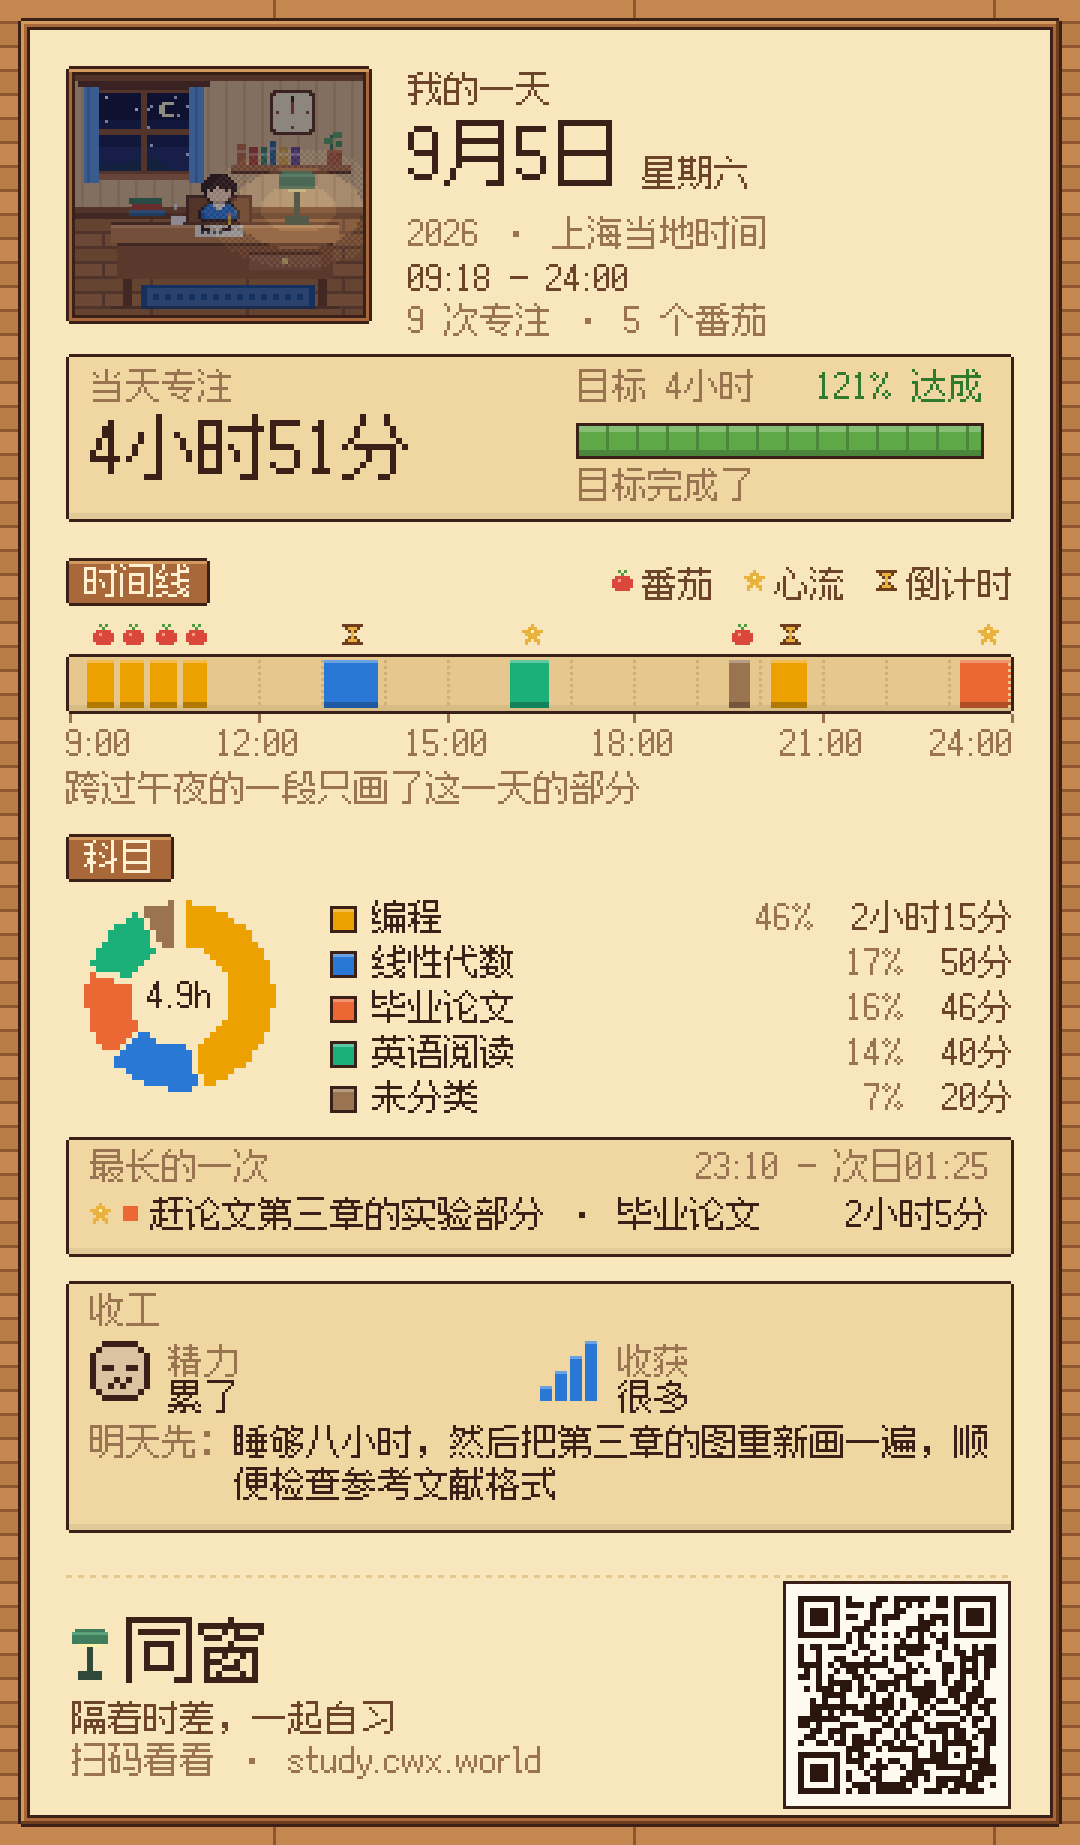
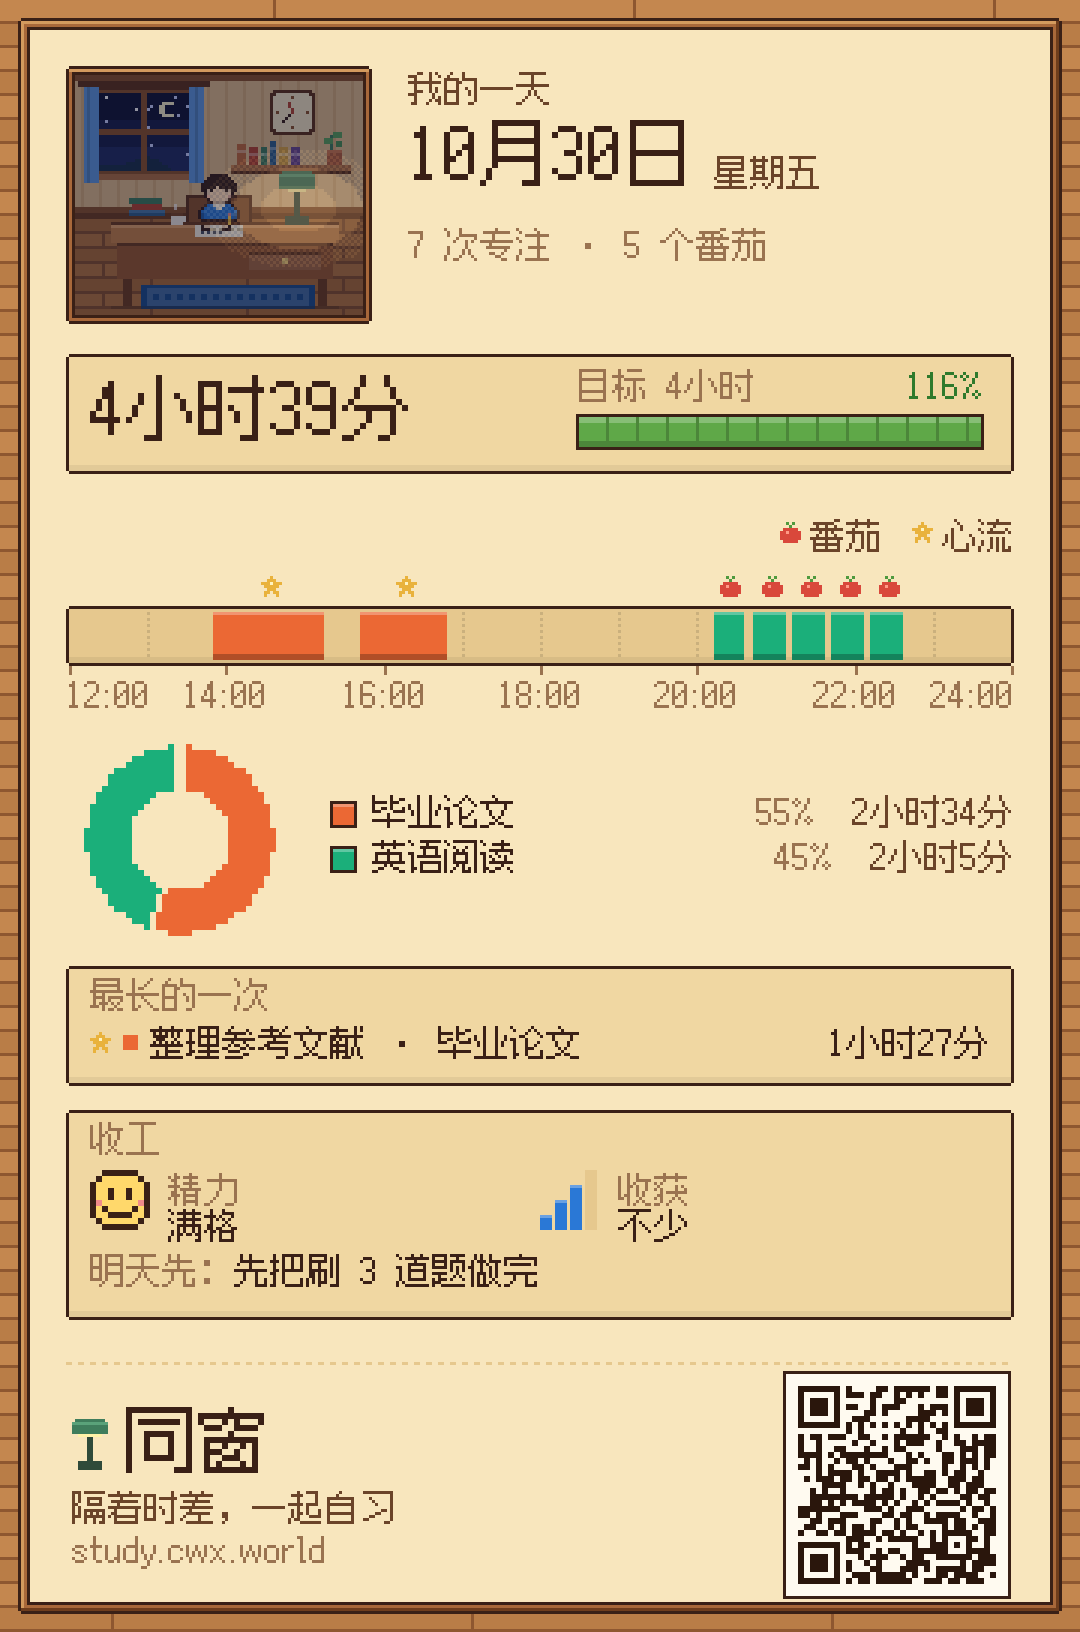
v1.5.1：分享图去掉多余的说明文字
一天：去掉年份与时区、时间范围、“当天专注”“目标完成了/还差”“达成”、跨午夜说明、最长一次的时间段、“时间线/科目”标签和饼图中心合计；没有记录时不画时间线。
一年：去掉副标题、日期范围和“一格是一天”。主页：去掉重复标签与“最近 N 天/周”，只画已获得的徽章。底部条去掉“扫码看看”。

Claude-Session: https://claude.ai/code/session_01XAwhtzSpAW6CvCXUzTFnq7

diff --git a/lib/dayCard.ts b/lib/dayCard.ts
@@ -200,10 +200,10 @@ const X = 22, CW = DAY_W - 44;
 
 function layout(d: DayData) {
   let y = 118; // header ends at 108
-  const total = { y, h: 56 }; y += 56 + 12;
+  const total = { y, h: 40 }; y += 40 + 12;
   const cut = d.blocks.some((b) => b.cutL || b.cutR);
-  const tl = { y, h: 32 + 20 + 16 + (cut ? 14 : 0) }; y += tl.h + 10;
-  const subj = d.slices.length ? { y, h: 20 + Math.max(68, d.slices.length * 15) } : null; if (subj) y += subj.h + 6;
+  const tl = d.blocks.length ? { y, h: 32 + 20 + 16 } : null; if (tl) y += tl.h + 10;
+  const subj = d.slices.length ? { y, h: Math.max(68, d.slices.length * 15) } : null; if (subj) y += subj.h + 6;
   const longest = d.longest ? { y, h: 40 } : null; if (longest) y += 40 + 8;
   const noteLines = d.review?.note ? wrap(d.review.note, CW - 16 - textW("明天先："), 2).length : 0;
   const review = d.review ? { y, h: 20 + 22 + (noteLines ? 6 + noteLines * 14 : 0) + 8 } : null; if (review) y += review.h + 8;
@@ -247,25 +247,21 @@ export function drawDayCard(ctx: CanvasRenderingContext2D, d: DayData, theme: Ca
   text(ctx, fit(titleOf(d), tw), tx, 24, p.ink2);
   const dw = text(ctx, fmtDay(d.day), tx, 40, p.ink, 2);
   text(ctx, "星期" + weekdayCn[weekdayOfKey(d.day)], tx + dw + 6, 52, p.ink2);
-  text(ctx, fit(`${d.day.slice(0, 4)} · ${tzCity(d.tz)}当地时间`, tw), tx, 72, p.ink3);
-  if (d.span) text(ctx, `${d.span[0]} – ${d.live ? "进行中" : d.span[1]}`, tx, 87, p.ink2);
-  // a short tally under the time range
-  const tally = d.count ? `${d.count} 次专注${d.pomos ? ` · ${d.pomos} 个番茄` : ""}` : "这一天没有专注记录";
-  text(ctx, fit(tally, tw), tx, d.span ? 101 : 87, p.ink3);
+  const tally = d.count ? `${d.count} 次专注${d.pomos ? ` · ${d.pomos} 个番茄` : ""}` : "没有专注记录";
+  text(ctx, fit(tally, tw), tx, 76, p.ink3);
 
   /* total + goal */
   {
     const { y, h } = L.total;
     tile(ctx, X, y, CW, h, p);
-    text(ctx, "当天专注", X + 8, y + 5, p.ink3);
-    text(ctx, fit(durTxt(d.totalMs), 150, 2), X + 8, y + 20, p.ink, 2);
+    text(ctx, fit(durTxt(d.totalMs), 150, 2), X + 8, y + Math.round(h / 2) - 13, p.ink, 2);
     const gx = X + 170, gw = CW - 170 - 10;
     const pct = d.goalMs > 0 ? Math.round((d.totalMs / d.goalMs) * 100) : 0;
     text(ctx, `目标 ${durTxt(d.goalMs)}`, gx, y + 5, p.ink3);
-    const pt = pct >= 100 ? `${pct}% 达成` : `${pct}%`;
+    const pt = `${pct}%`;
     text(ctx, pt, gx + gw - textW(pt), y + 5, pct >= 100 ? (p.night ? "#9ed36a" : "#2f7a2c") : p.ink2);
     // segmented pixel bar
-    const by = y + 23, bh = 12;
+    const by = y + 20, bh = 12;
     rect(ctx, gx, by, gw, bh, p.edge);
     rect(ctx, gx + 1, by + 1, gw - 2, bh - 2, p.slot);
     const fillW = Math.round((gw - 2) * Math.min(1, pct / 100));
@@ -276,13 +272,11 @@ export function drawDayCard(ctx: CanvasRenderingContext2D, d: DayData, theme: Ca
       rect(ctx, gx + 1, by + bh - 3, fillW, 2, goodDk);
       for (let sx = gx + 1 + 9; sx < gx + 1 + fillW; sx += 10) rect(ctx, sx, by + 1, 1, bh - 2, goodDk);
     }
-    text(ctx, pct >= 100 ? "目标完成了" : `还差 ${durTxt(Math.max(0, d.goalMs - d.totalMs))}`, gx, by + bh + 3, p.ink3);
   }
 
   /* timeline */
-  {
+  if (L.tl) {
     const y0 = L.tl.y;
-    tag(ctx, "时间线", X, y0, p);
     // legend of the modes used, right-aligned on the tag row
     const modes = (["pomodoro", "stopwatch", "countdown"] as FocusMode[]).filter((m) => d.blocks.some((b) => b.mode === m));
     let lx = X + CW;
@@ -335,7 +329,7 @@ export function drawDayCard(ctx: CanvasRenderingContext2D, d: DayData, theme: Ca
       const cx = Math.round(x0 + w / 2) - 3;
       if (cx >= lastIcon + 8) { modeIcon(ctx, b.mode, Math.max(X, Math.min(X + CW - 7, cx)), iy, p); lastIcon = cx; }
     });
-    if (!d.blocks.length) { const m = "这一天没有专注记录"; text(ctx, m, X + Math.round((CW - textW(m)) / 2), ty + 3, p.ink3); }
+    if (!d.blocks.length) { const m = "没有专注记录"; text(ctx, m, X + Math.round((CW - textW(m)) / 2), ty + 3, p.ink3); }
     // ticks + labels
     const labels: { x: number; w: number; t: string }[] = [];
     for (let h = h0; h <= h1; h += step) {
@@ -352,20 +346,15 @@ export function drawDayCard(ctx: CanvasRenderingContext2D, d: DayData, theme: Ca
       text(ctx, l.t, l.x, ty + th + 4, p.ink3);
       lastEnd = l.x + l.w;
     });
-    if (L.cut) text(ctx, "跨过午夜的一段只画了这一天的部分", X, ty + th + 19, p.ink3);
   }
 
   /* subjects */
   if (L.subj) {
     const y0 = L.subj.y;
-    tag(ctx, "科目", X, y0, p);
     const n = 32, cell = 2, size = n * cell;
-    const dy = y0 + 22;
+    const dy = y0;
     donut(ctx, X + 6, dy, n, cell, d.slices.map((s) => ({ ms: s.ms, color: sc(s.color) })), p.slot);
     const tot = d.slices.reduce((a, s) => a + s.ms, 0) || 1;
-    // the hole shows the day's total, like the donut on the stats page
-    const pc = durShort(tot);
-    text(ctx, pc, X + 6 + Math.round((size - textW(pc)) / 2), dy + size / 2 - 6, p.ink);
     const lx = X + 6 + size + 18, rw = X + CW - lx;
     const rows = d.slices.length;
     const ly = dy + Math.max(0, Math.round((size - rows * 15) / 2));
@@ -387,8 +376,6 @@ export function drawDayCard(ctx: CanvasRenderingContext2D, d: DayData, theme: Ca
     const { y, h } = L.longest, l = d.longest;
     tile(ctx, X, y, CW, h, p);
     text(ctx, "最长的一次", X + 8, y + 4, p.ink3);
-    const range = `${l.from} – ${l.to}`;
-    text(ctx, range, X + CW - 8 - textW(range), y + 4, p.ink3);
     const ry = y + 20;
     modeIcon(ctx, l.mode, X + 8, ry + 2, p);
     const c = sc(l.color);
@@ -436,7 +423,7 @@ export function drawDayCard(ctx: CanvasRenderingContext2D, d: DayData, theme: Ca
 
 /** render the full-size PNG */
 export async function renderDayCard(d: DayData, theme: CardTheme, hide: boolean, scale = DAY_SCALE): Promise<{ blob: Blob; url: string }> {
-  const glyphs = dayText(d, hide) + "目标完成了还差hm";
+  const glyphs = dayText(d, hide) + "hm";
   // the height depends on how the 收工 note wraps, so measure with the real font first
   await ensureCardFont(glyphs + FOOTER_TEXT);
   resetMeasure();

diff --git a/lib/profileCard.ts b/lib/profileCard.ts
@@ -110,12 +110,11 @@ function widgetBody(r: Run, w: Widget, x: number, y: number, cw: number, wide: b
     case "today": {
       const pct = s.goalMs ? s.todayMs / s.goalMs : 0;
       const lw = wide ? 140 : cw;
-      T(r, "今天", x, y, p.ink3);
-      T(r, Fit(r, dur(s.todayMs), lw, 2), x, y + 14, p.ink, 2);
-      meter(r, x, y + 42, Math.min(lw, 140), pct);
-      T(r, `目标 ${durShort(s.goalMs)} · ${Math.round(pct * 100)}%`, x, y + 52, p.ink3);
-      const ww = T(r, "本周 ", x, y + 68, p.ink3);
-      T(r, `${hrs(s.weekMs)}h`, x + ww, y + 68, p.ink);
+      T(r, Fit(r, dur(s.todayMs), lw, 2), x, y, p.ink, 2);
+      meter(r, x, y + 28, Math.min(lw, 140), pct);
+      T(r, `目标 ${durShort(s.goalMs)} · ${Math.round(pct * 100)}%`, x, y + 38, p.ink3);
+      const ww = T(r, "本周 ", x, y + 54, p.ink3);
+      T(r, `${hrs(s.weekMs)}h`, x + ww, y + 54, p.ink);
       if (wide) {
         const bx = x + 156, bwid = cw - 156, slot = Math.floor(bwid / 7), barH = 50;
         const max = Math.max(s.goalMs, ...s.week.map((q) => q.ms), HOUR);
@@ -129,7 +128,7 @@ function widgetBody(r: Run, w: Widget, x: number, y: number, cw: number, wide: b
           T(r, lab, cx + Math.round((slot - textW(lab)) / 2), y + 60, q.key === s.todayKey ? p.ink : p.ink3);
         });
       }
-      return 82;
+      return wide ? 72 : 68;
     }
     case "streak": {
       ctx.save(); ctx.translate(x, y + 2); ctx.scale(2, 2);
@@ -137,7 +136,7 @@ function widgetBody(r: Run, w: Widget, x: number, y: number, cw: number, wide: b
       ctx.restore();
       const vw = T(r, String(s.streak.current), x + 28, y, p.ink, 2);
       T(r, "天", x + 30 + vw, y + 12, p.ink2);
-      T(r, Fit(r, s.streak.current ? `现在连续 · 最长 ${s.streak.best} 天` : `最长连续 ${s.streak.best} 天`, cw - 28), x + 28, y + 26, p.ink3);
+      T(r, Fit(r, s.streak.current ? `最长 ${s.streak.best} 天` : `最长连续 ${s.streak.best} 天`, cw - 28), x + 28, y + 26, p.ink3);
       const cells = s.yearCols.flat().filter((c) => !c.future).slice(-(wide ? 28 : 14));
       const step = Math.min(10, Math.floor(cw / cells.length));
       cells.forEach((c, i) => {
@@ -156,7 +155,7 @@ function widgetBody(r: Run, w: Widget, x: number, y: number, cw: number, wide: b
         rect(ctx, x + ci * step, y + di * step, step - 1, step - 1, p.q[lv]);
       }));
       const gy = y + 7 * step + 4;
-      T(r, Fit(r, `最近 ${n} 周 · ${s.activeDays} 天有记录`, cw - 70), x, gy, p.ink3);
+      T(r, `${s.activeDays} 天`, x, gy, p.ink3);
       let lx = x + cw - 6 * 7 - textW("多") - 2;
       for (let i = 0; i < 6; i++) rect(ctx, lx + i * 7, gy + 4, 6, 6, p.q[i]);
       lx += 6 * 7 + 2;
@@ -166,31 +165,28 @@ function widgetBody(r: Run, w: Widget, x: number, y: number, cw: number, wide: b
     case "subjects": {
       const parts = s.subjects[w.config.days === 7 ? 7 : 30];
       const total = parts.reduce((a, q) => a + q.ms, 0);
-      T(r, `最近 ${w.config.days === 7 ? 7 : 30} 天`, x, y, p.ink3);
-      if (!total) { T(r, "这段时间还没有记录", x, y + 16, p.ink3); return 30; }
+      if (!total) { T(r, "这段时间还没有记录", x, y, p.ink3); return 14; }
       const top = parts.slice(0, wide ? 5 : 4);
       const restMs = total - top.reduce((a, q) => a + q.ms, 0);
       const items = restMs > 0 ? [...top, { key: "__o", name: "其他", color: null, ms: restMs }] : top;
       const cell = wide ? 3 : 2, N = 28, size = N * cell;
-      donut(r, x, y + 16, cell, items.map((q) => ({ ms: q.ms, color: q.key === "__o" ? p.ink3 : subjColor(r, q) })));
+      donut(r, x, y, cell, items.map((q) => ({ ms: q.ms, color: q.key === "__o" ? p.ink3 : subjColor(r, q) })));
       const lx = x + size + 8, lw = cw - size - 8;
       items.forEach((q, i) => {
-        const ly = y + 16 + i * 14;
+        const ly = y + i * 14;
         rect(ctx, lx, ly + 3, 7, 7, p.edge); rect(ctx, lx + 1, ly + 4, 5, 5, q.key === "__o" ? p.ink3 : subjColor(r, q));
         const pct = `${Math.round((q.ms / total) * 100)}%`;
         const pw = textW(pct);
         T(r, Fit(r, q.name, lw - 14 - pw - 4), lx + 11, ly, p.ink2);
         T(r, pct, lx + lw - pw, ly, p.ink);
       });
-      return 16 + Math.max(size, items.length * 14);
+      return Math.max(size, items.length * 14);
     }
     case "hours": {
       const hours = s.hours[w.config.days === 90 ? 90 : 30];
       const pk = peakWindow(hours);
       if (!pk) { T(r, "这段时间还没有记录", x, y, p.ink3); return 14; }
-      const lw = T(r, "最常在 ", x, y, p.ink2);
-      const vw = T(r, peakLabel(pk), x + lw, y, p.ink);
-      T(r, " 学习", x + lw + vw, y, p.ink2);
+      T(r, peakLabel(pk), x, y, p.ink);
       const max = Math.max(...hours, 1), slot = Math.floor(cw / 24), bh = 34, by = y + 18;
       const ox = x + Math.floor((cw - slot * 24) / 2);
       hours.forEach((v, h) => {
@@ -263,7 +259,8 @@ function widgetBody(r: Run, w: Widget, x: number, y: number, cw: number, wide: b
     }
     case "badges": {
       const earned = s.badges.filter((b) => b.earned);
-      const list = w.config.showLocked !== false ? [...earned, ...s.badges.filter((b) => !b.earned)] : earned;
+      // the picture is for people outside the app: only what was earned
+      const list = earned;
       if (!list.length) { T(r, "还没有徽章", x, y, p.ink3); return 14; }
       const cell = wide ? 60 : 36, mh = MEDAL_H * 2, perRow = Math.max(1, Math.floor(cw / cell));
       const rows = Math.ceil(list.length / perRow), rowH = mh + (wide ? 18 : 6);
@@ -318,7 +315,7 @@ function layout(ctx: C, d: ProfileCardData, theme: CardTheme, glyphs: string[], 
   }
   const tx = 88, tw = W - tx - PAD;
   T(r, Fit(r, d.name, tw, 2), tx, 24, p.ink, 2);
-  T(r, Fit(r, `${d.city} · 同窗主页`, tw), tx, 52, p.ink2);
+  T(r, Fit(r, d.city, tw), tx, 52, p.ink2);
   let y = 66;
   if (d.bio) {
     const lines = wrap(r, `“${d.bio}”`, tw, 3);

diff --git a/lib/shareKit.ts b/lib/shareKit.ts
@@ -186,10 +186,10 @@ export function drawShareFooter(ctx: CanvasRenderingContext2D, x: number, y: num
   logo(ctx, x + 2, cy - 22, p);
   text(ctx, "同窗", x + 20, cy - 26, p.ink, 2);
   text(ctx, "隔着时差，一起自习", x + 2, cy + 2, p.ink2);
-  text(ctx, "扫码看看 · study.cwx.world", x + 2, cy + 16, p.ink3);
+  text(ctx, "study.cwx.world", x + 2, cy + 16, p.ink3);
 }
 /** glyphs the footer needs (pass to ensureCardFont together with the card's own text) */
-export const FOOTER_TEXT = "同窗隔着时差，一起自习扫码看看 · study.cwx.world";
+export const FOOTER_TEXT = "同窗隔着时差，一起自习study.cwx.world";
 
 /** draw at native size with `draw`, then scale up by `scale` into a PNG (blob + data URL) */
 export async function renderPixelPng(w: number, h: number, scale: number, glyphs: string, draw: (ctx: CanvasRenderingContext2D) => void): Promise<{ blob: Blob; url: string }> {

diff --git a/lib/shareCard.ts b/lib/shareCard.ts
@@ -137,9 +137,7 @@ export function drawCard(ctx: CanvasRenderingContext2D, d: ShareData, theme: Car
   ctx.save(); ctx.translate(wx + 3, wy + 3 + 48 - g.length * 3); ctx.scale(3, 3); drawGrid(ctx, g, 0, 0); ctx.restore();
 
   const tx = 88;
-  text(ctx, fit(titleOf(d), W - tx - 20, 2), tx, 24, p.ink, 2);
-  text(ctx, "最近一年的庄稼长势", tx, 52, p.ink2);
-  text(ctx, `${fmtDate(d.from)} – ${fmtDate(d.to)}`, tx, 66, p.ink3);
+  text(ctx, fit(titleOf(d), W - tx - 20, 2), tx, 36, p.ink, 2);
 
   // divider
   for (let x = 22; x < W - 22; x += 4) rect(ctx, x, 86, 2, 1, p.slot);
@@ -152,7 +150,6 @@ export function drawCard(ctx: CanvasRenderingContext2D, d: ShareData, theme: Car
 
   // legend
   const ly = 290;
-  text(ctx, "一格是一天", hx - 15, ly, p.ink3);
   let lx = hx + half * 11 - 2;
   const lw = 6 * 11 - 2;
   lx -= textW("多") + 4 + lw + 4 + textW("少");

diff --git a/CHANGELOG.md b/CHANGELOG.md
@@ -2,6 +2,12 @@
 
 版本号遵循 [语义化版本](https://semver.org/lang/zh-CN/)。标注“需要执行数据库脚本”的版本，部署前请在 Supabase SQL Editor 里重新执行一遍 `supabase/schema.sql`（脚本可重复执行）。
 
+## 1.5.1 · 分享图更简洁（2026-11-04）
+
+- 分享图去掉了不必要的说明文字：时区、时间范围、“目标完成了”、跨午夜提示、重复的标签和合计等，只留数字和图
+- 一天没有专注记录时，分享图不再画空的时间线
+- 主页分享图只显示已经拿到的徽章
+
 ## 1.5.0 · 个人主页、留言板与分享一天（2026-11-04）
 
 - 新增个人主页：点任何头像或名字，就能看同窗的书桌、签名和他们自己挑的小组件（正在攻克的目标倒计时、里程碑徽章、一年的长势、科目分布、最近的专注……）

diff --git a/README.md b/README.md
@@ -8,7 +8,7 @@
 
 [立即使用](https://study.cwx.world) · [产品介绍](https://study.cwx.world/release) · [更新日志](CHANGELOG.md) · [需求池](docs/BACKLOG.md)
 
-![version](https://img.shields.io/badge/version-1.5.0-f5b83d?style=flat-square)
+![version](https://img.shields.io/badge/version-1.5.1-f5b83d?style=flat-square)
 ![Next.js](https://img.shields.io/badge/Next.js-15-3a2016?style=flat-square)
 ![Supabase](https://img.shields.io/badge/Supabase-Realtime-4f9a4a?style=flat-square)
 ![PWA](https://img.shields.io/badge/PWA-可添加到主屏幕-a8683a?style=flat-square)
